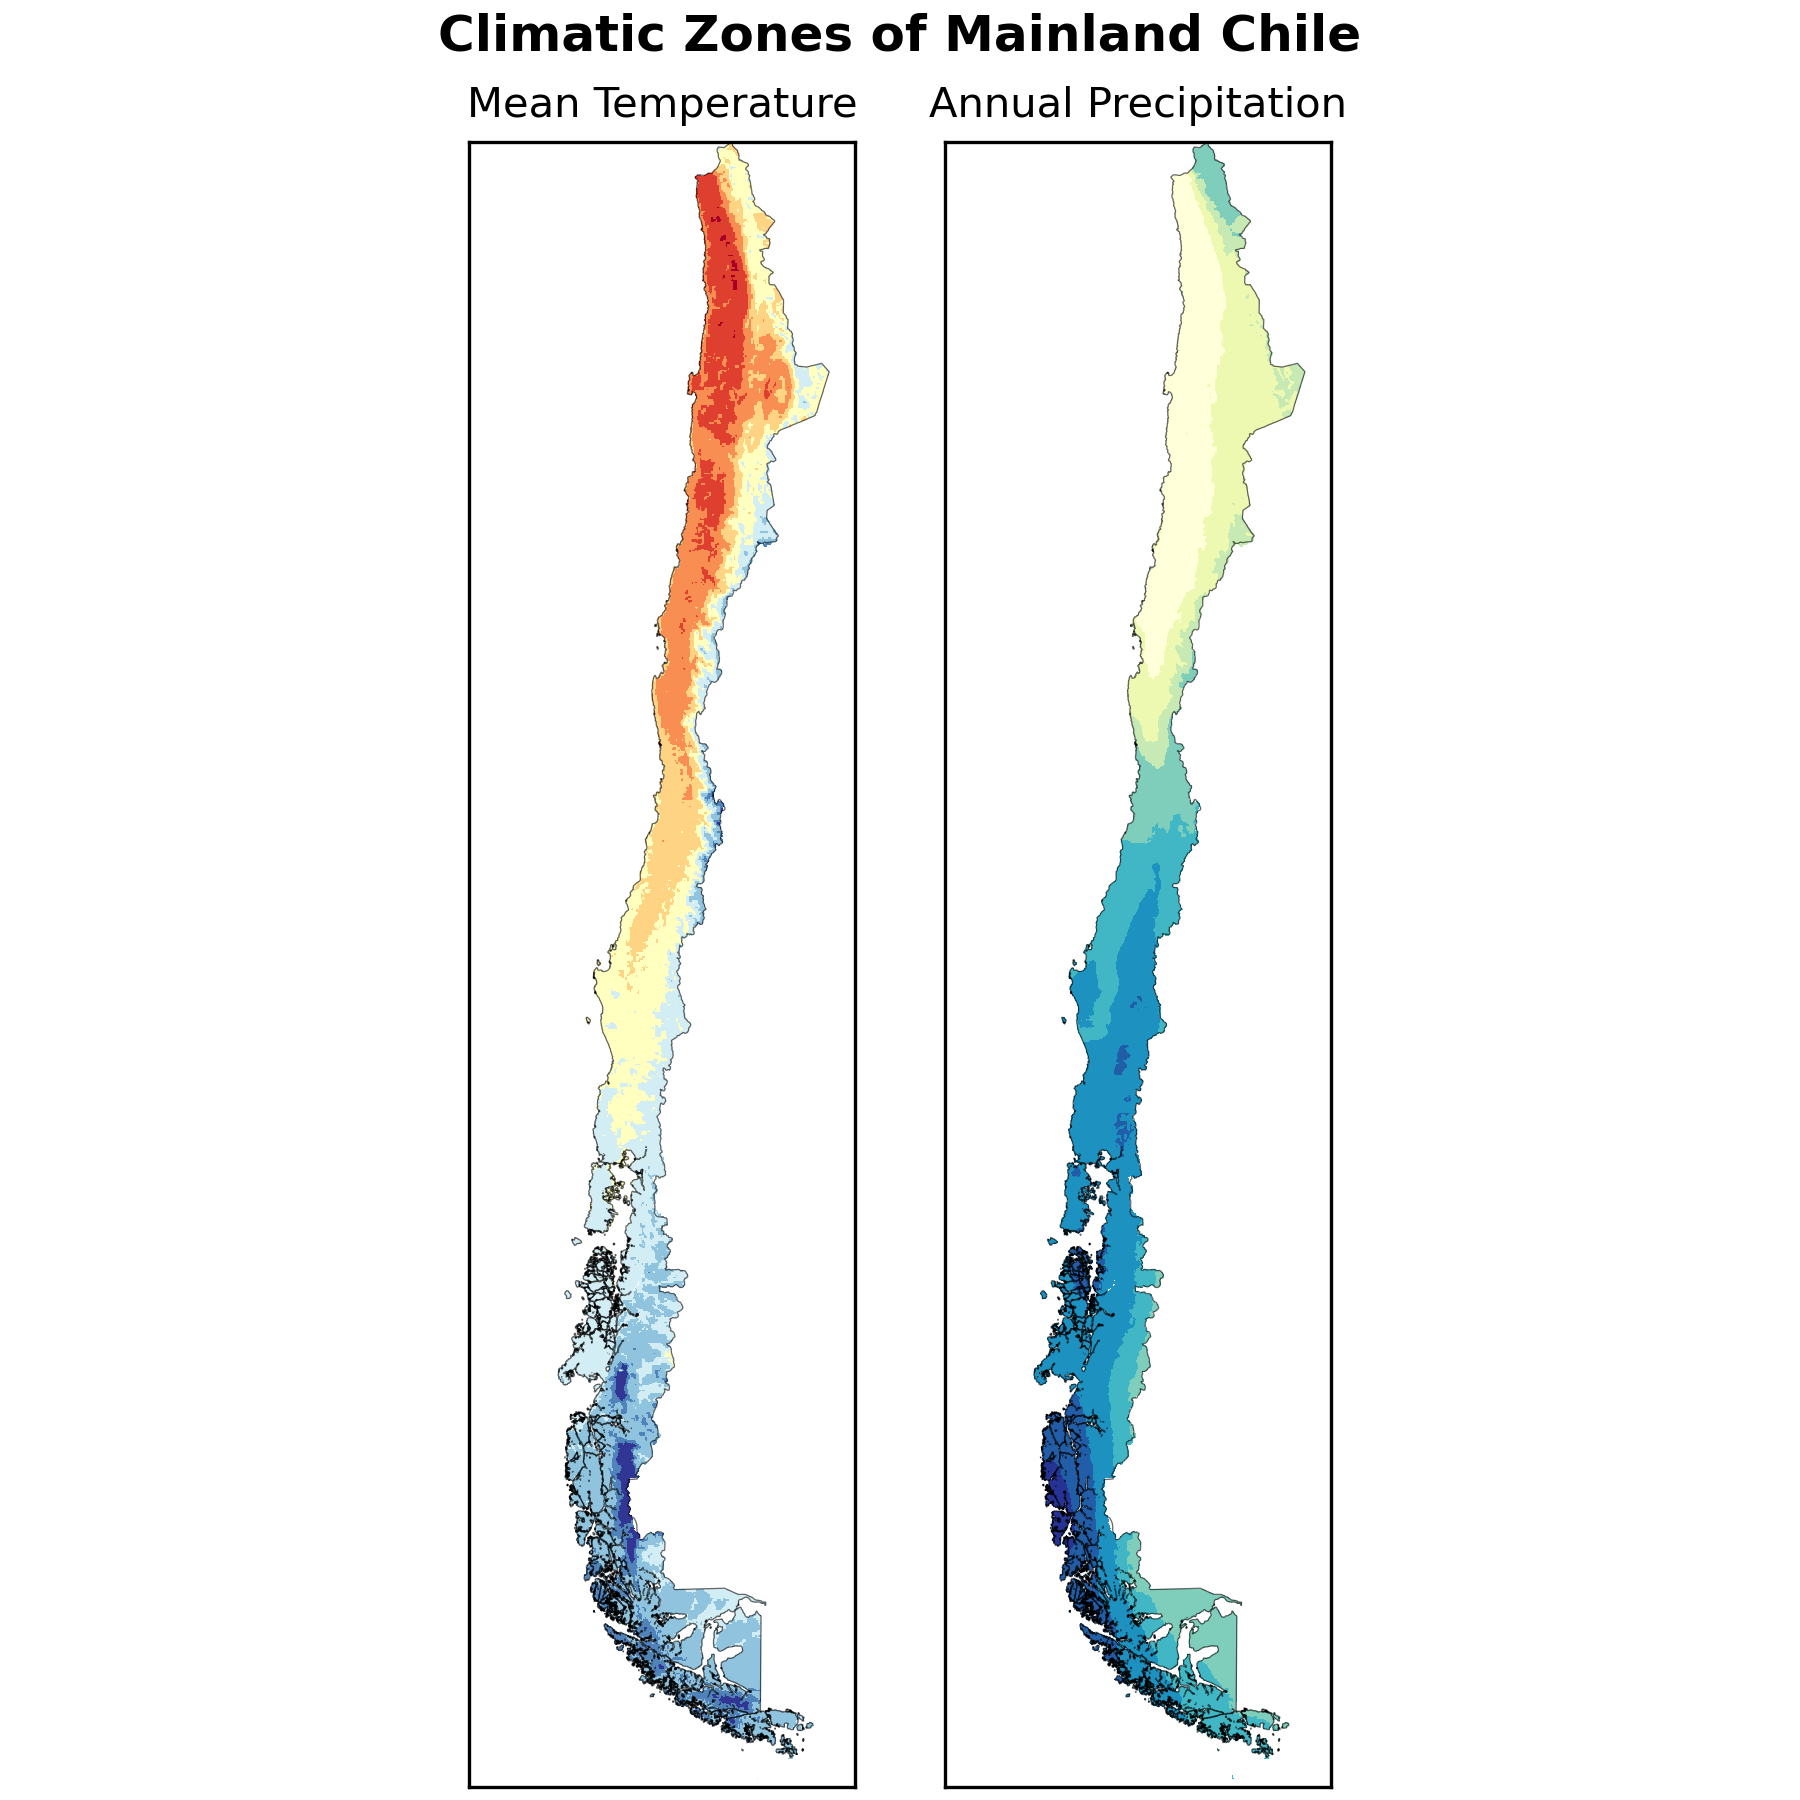
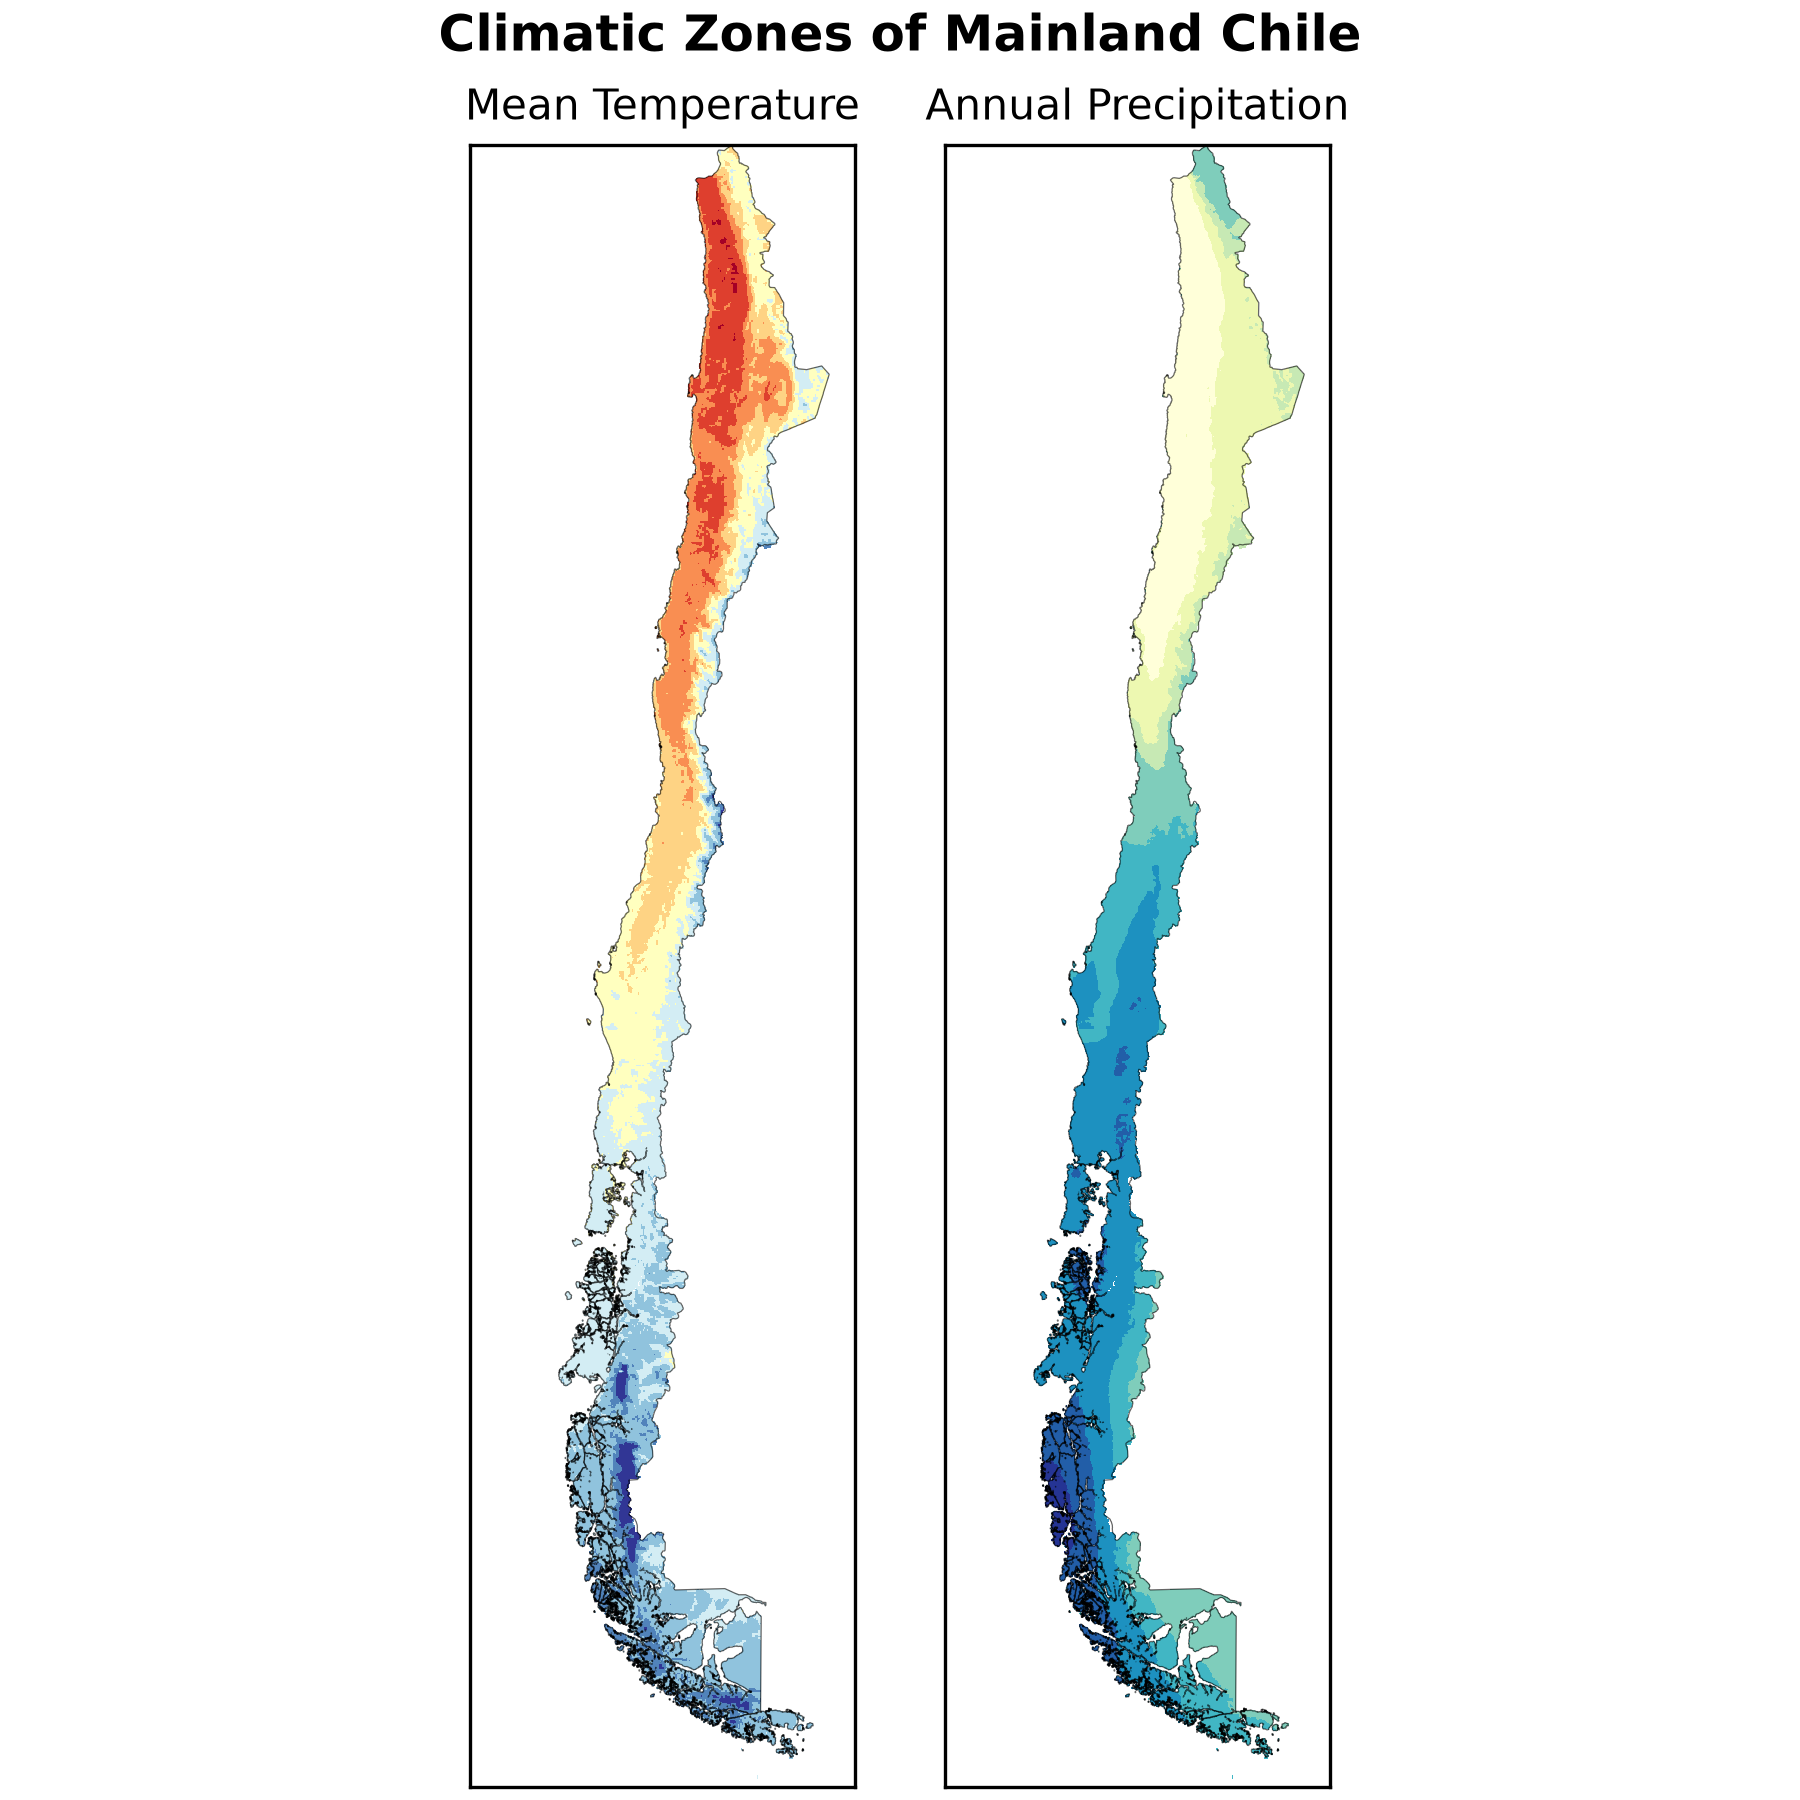
docs: Update the measured memory figures of the Moscow and Andes gallery cards, and regenerate the gallery images
Re-measured at c9442b7 (3 runs each): Moscow 0.81-0.82 GB peak (was about 1 GB), Andes 2.69-2.86 GB (was about 3 GB); both lower likely because of the leaner data manifest.

All gallery images regenerated with scripts/build_gallery.py: five are unchanged; Mekong, Korea and Chile differ only in their layout by a few pixels (newer library versions).

diff --git a/README.md b/README.md
@@ -165,7 +165,7 @@ plt.show()
         <b><a href="./examples/large_rasters/01_moscow_built_volume.py">Greater Moscow</a></b>
       </div>
       <div align="left">
-        Use any shapely geometry as the AoI. Only the cells near it are read, reducing memory load for large country rasters (here: about 1 GB instead of 84 GB).
+        Use any shapely geometry as the AoI. Only the cells near it are read, reducing memory load for large country rasters (here: about 0.8 GB instead of 84 GB).
       </div>
     </td>
   </tr>
@@ -200,7 +200,7 @@ plt.show()
         <b><a href="./examples/large_rasters/03_andes_topo_dask.py">The Andes</a></b>
       </div>
       <div align="left">
-        Merge the elevation rasters of six countries lazily with Dask (here: an 11 GB grid in about 3 GB of memory).
+        Merge the elevation rasters of six countries lazily with Dask (here: an 11 GB grid in about 2.8 GB of memory).
       </div>
     </td>
   </tr>
